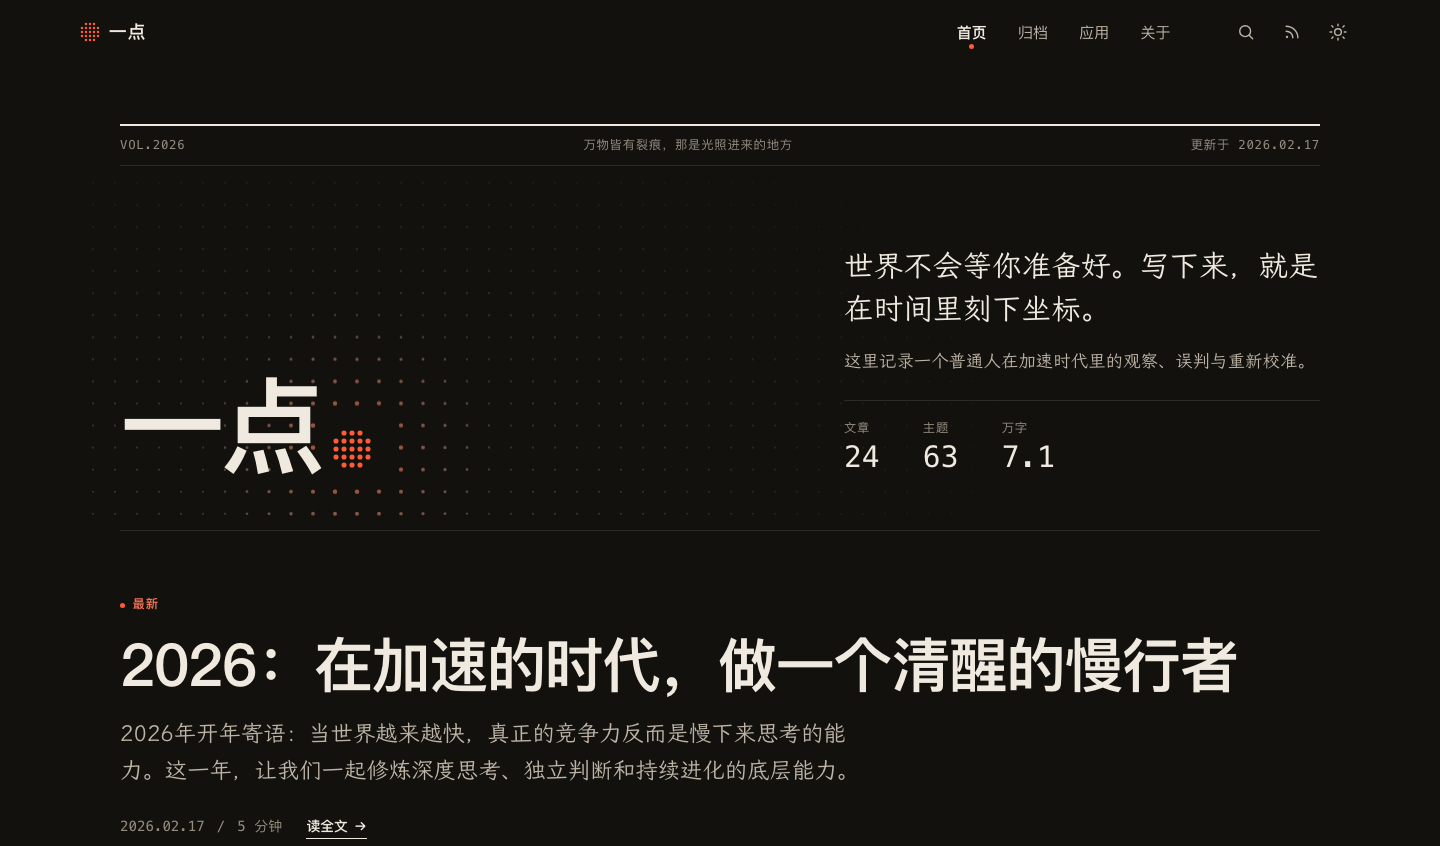
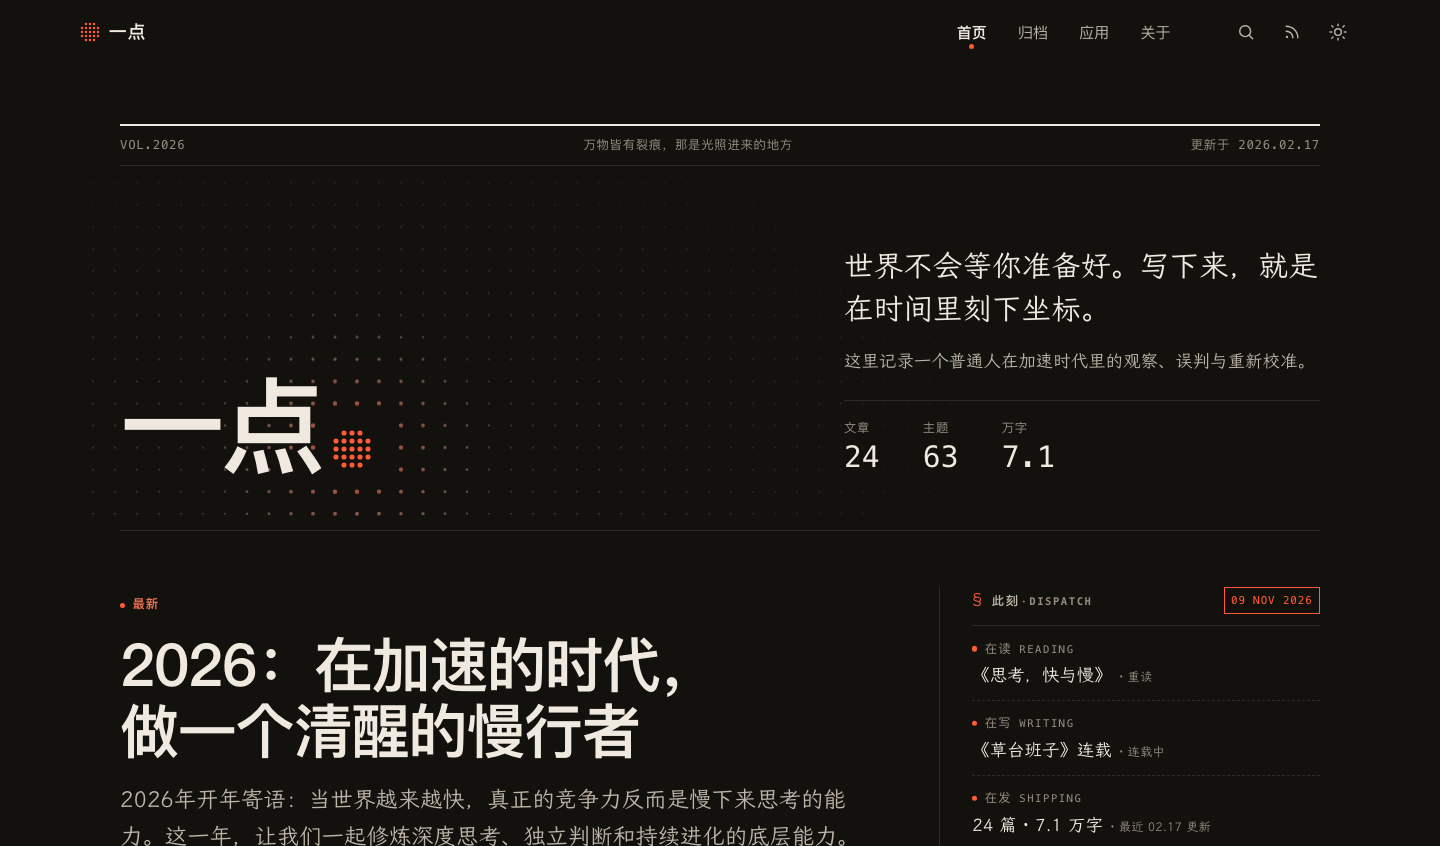
fix(home): 「此刻」收回头条右栏，字号降回侧栏尺度
- home.html 把 now 放回 .front；.front 恢复 8fr/4fr 栅格
- .dispatch 改 align-self:start + 左边框，去掉通栏的 margin-top / border-top
- 内容字号 --step-2 → --step-0，标题 --step--1 → --step--2，
  四行改「标签一行、内容一行」
- 柱图独占一行并放大，SET IN 提回 --step--1，点阵落款 22→16px
- 860px 以下右栏落到头条下方并排 2×2，700px 以下回单列
- 数据与自动统计口径不变；§ 字重 400 保留，字体请求仍 1 个
- 同步明暗截图、README 与 REFACTOR 23.6 修订记录

Changed region(s): [[0.0625, 0.8298, 0.5938, 1.0], [0.5, 0.7069, 0.9062, 0.8913], [0.6875, 0.922, 0.8438, 0.9835]]

diff --git a/assets/css/v10/_dispatch.scss b/assets/css/v10/_dispatch.scss
@@ -1,26 +1,26 @@
 /* ===================================================================
-   V10.6「此刻 · DISPATCH」通栏状态公报
+   V10.6「此刻 · DISPATCH」右栏状态公报
    -------------------------------------------------------------------
-   形式取自公报 / colophon：细线分栏、等宽标签、衬线内容、日期框、
-   底部排印说明。与 V10 的差别只在「多了一层线」，配色、字族、留白
-   全部沿用令牌，明暗主题自动跟随。
+   形式取自公报 / colophon：细线分栏、等宽标签、日期框、柱图、底部
+   排印说明。但位置仍回到 V10 的 .front 右栏（8fr / 4fr），不占通栏，
+   字号也压回侧栏尺度——比头条低一档，不跟刊头抢注意力。
 
    刻意不搬参考图里的东西：世界地图、BUREAUX、冷蓝、英文衬线。
    蓝色小点换成朱砂点，右下角复用 components/dot-shape 的点阵圆。
    =================================================================== */
 
 .dispatch {
-  margin-top: #{"clamp(2.5rem, 1.5rem + 3vw, 4rem)"};
-  padding-top: #{"clamp(1.25rem, .8rem + 1.5vw, 1.75rem)"};
-  border-top: 2px solid var(--line-ink);
+  align-self: start;
+  padding-left: #{"clamp(1.25rem, 2.5vw, 2rem)"};
+  border-left: 1px solid var(--line);
 }
 
 .dispatch-head {
   display: flex;
   align-items: center;
   justify-content: space-between;
-  gap: 1rem;
-  padding-bottom: 1rem;
+  gap: .6rem;
+  padding-bottom: .7rem;
   border-bottom: 1px solid var(--line);
 }
 
@@ -30,18 +30,19 @@
   gap: .15em;
   margin: 0;
   font-family: var(--font-ui);
-  font-size: var(--step--1);
+  font-size: var(--step--2);
   font-weight: 600;
-  letter-spacing: .18em;
+  letter-spacing: .14em;
+  white-space: nowrap;
   color: var(--ink-2);
 }
 
 .dispatch-sigil {
-  margin-right: .45em;
+  margin-right: .4em;
   font-family: var(--font-read);
   /* 标题继承 600 字重，会把 medium 那份 woff2 也拉下来（+682KB），这里压回 400 */
   font-weight: 400;
-  font-size: 1.25em;
+  font-size: 1.2em;
   color: var(--zhu);
 }
 
@@ -49,8 +50,8 @@
 
 .dispatch-en {
   font-family: var(--font-num);
-  font-size: .82em;
-  letter-spacing: .2em;
+  font-size: .86em;
+  letter-spacing: .14em;
   text-transform: uppercase;
   color: var(--ink-3);
 }
@@ -58,11 +59,11 @@
 .dispatch-date {
   flex: none;
   margin: 0;
-  padding: .35rem .65rem;
+  padding: .2rem .4rem;
   border: 1px solid var(--zhu);
   font-family: var(--font-num);
-  font-size: var(--step--2);
-  letter-spacing: .12em;
+  font-size: .68rem;
+  letter-spacing: .08em;
   text-transform: uppercase;
   white-space: nowrap;
   color: var(--zhu);
@@ -70,12 +71,12 @@
 
 .dispatch-list { margin: 0; }
 
+/* 窄栏里「左标签 + 右内容」放不下，改成标签一行、内容一行 */
 .dispatch-row {
   display: grid;
-  grid-template-columns: minmax(0, 11rem) minmax(0, 1fr);
-  align-items: baseline;
-  gap: 1rem 2rem;
-  padding: 1.1rem 0;
+  grid-template-columns: 1fr;
+  gap: .2rem;
+  padding: .7rem 0;
   border-bottom: 1px dashed var(--line);
 
   &:last-child { border-bottom: 0; }
@@ -83,10 +84,10 @@
   dt {
     display: inline-flex;
     align-items: baseline;
-    gap: .7em;
+    gap: .6em;
     font-family: var(--font-ui);
-    font-size: var(--step--1);
-    letter-spacing: .12em;
+    font-size: var(--step--2);
+    letter-spacing: .1em;
     white-space: nowrap;
     color: var(--ink-3);
   }
@@ -95,7 +96,7 @@
     display: flex;
     flex-wrap: wrap;
     align-items: baseline;
-    gap: .25rem .8rem;
+    gap: .15rem .45rem;
     margin: 0;
   }
 }
@@ -109,10 +110,11 @@
   transform: translateY(-.1em);
 }
 
+/* 原本 --step-2 在右栏里过大，压回侧栏原来的 --step-0 */
 .dispatch-text {
   font-family: var(--font-read);
-  font-size: var(--step-2);
-  line-height: 1.45;
+  font-size: var(--step-0);
+  line-height: 1.5;
   color: var(--ink);
   text-decoration: none;
 
@@ -125,17 +127,19 @@
 
 .dispatch-note {
   font-family: var(--font-read);
-  font-size: var(--step--1);
+  font-size: var(--step--2);
   color: var(--ink-3);
 }
 
-/* 近 12 个月发文柱图：0 也留 6% 底线，静默期才看得出是「平」而不是「没画」 */
+/* 近 12 个月发文柱图：0 也留 6% 底线，静默期才看得出是「平」而不是「没画」。
+   右栏太窄，跟在文字后面会被挤成一个小突起，这里让它独占一行。 */
 .dispatch-bars {
   display: inline-flex;
+  flex: 0 0 100%;
   align-items: flex-end;
   gap: 3px;
-  height: 1.15rem;
-  margin-left: .9rem;
+  height: 1rem;
+  margin-top: .3rem;
 
   i {
     display: block;
@@ -151,9 +155,9 @@
   display: flex;
   align-items: center;
   justify-content: space-between;
-  gap: 1rem;
-  margin-top: .25rem;
-  padding-top: 1rem;
+  gap: .6rem;
+  margin-top: .2rem;
+  padding-top: .7rem;
   border-top: 1px solid var(--line);
 }
 
@@ -161,21 +165,29 @@
   margin: 0;
   font-family: var(--font-read);
   font-size: var(--step--1);
+  line-height: 1.5;
   color: var(--ink-3);
 
-  .dispatch-en { margin-right: .65em; }
+  .dispatch-en { margin-right: .5em; }
 }
 
-.dispatch-mark { --dot-shape-size: 22px; }
+.dispatch-mark { --dot-shape-size: 16px; }
+
+/* 中屏：.front 收成单列，公报改上边框，四行排成 2×2 压缩高度 */
+@media (max-width: 860px) {
+  .dispatch {
+    padding: 1.25rem 0 0;
+    border-left: 0;
+    border-top: 2px solid var(--line-ink);
+  }
+  .dispatch-list {
+    display: grid;
+    grid-template-columns: repeat(2, minmax(0, 1fr));
+    column-gap: 1.25rem;
+  }
+}
 
 @media (max-width: 700px) {
-  .dispatch-row {
-    grid-template-columns: 1fr;
-    gap: .35rem;
-    padding: .9rem 0;
-  }
   .dispatch-row .dispatch-en { display: none; }
-  .dispatch-text { font-size: var(--step-1); }
-  .dispatch-bars { gap: 2px; }
-  .dispatch-bars i { width: 3px; }
+  .dispatch-list { grid-template-columns: 1fr; }
 }

diff --git a/layouts/home.html b/layouts/home.html
@@ -4,7 +4,7 @@
   ---------------------------------------------------------------
   1. 刊头      home/hero    站名大字 + 刊语 + 数据（这是谁、写了多少）
   2. 头条      home/lead    精选 / 最新一篇
-  3. 此刻公报  home/now     通栏状态流：在读 / 在写 / 在发 / 在码
+  3. 此刻      home/now     右栏状态公报：在读 / 在写 / 在发 / 在码
                              后两行从站点内容自动统计
   4. 最近发表   items/post   严格按时间倒序（旧版取的是主题区挑剩的
                              文章，时间线是断的）
@@ -62,11 +62,9 @@
   {{ with $lead }}
   <div class="front">
     {{ partial "home/lead" (dict "ctx" .page "badge" .badge) }}
+    {{ partial "home/now" . }}
   </div>
   {{ end }}
-
-  {{/* V10.6：此刻从 .front 的右栏抽出来，升级成通栏状态公报 */}}
-  {{ partial "home/now" . }}
 
   {{ with $scratch.Get "rest" }}
   <section class="v-section stream pagefind-exclude" aria-labelledby="stream-heading">

diff --git a/assets/css/v10/_home.scss b/assets/css/v10/_home.scss
@@ -156,8 +156,11 @@ body { margin: 0; }
   }
 }
 
-/* ---------- 2. 头条（V10.6：此刻已抽出为通栏公报，这里只剩一列） ---------- */
+/* ---------- 2. 头条 + 此刻（右栏） ---------- */
 .front {
+  display: grid;
+  grid-template-columns: minmax(0, 8fr) minmax(0, 4fr);
+  gap: #{"clamp(1.75rem, 4vw, 4.5rem)"};
   padding-top: #{"clamp(2rem, 1rem + 3vw, 3.5rem)"};
 }
 
@@ -332,6 +335,7 @@ body { margin: 0; }
 
 @media (max-width: 860px) {
   .masthead-grid { grid-template-columns: 1fr; align-items: start; }
+  .front { grid-template-columns: 1fr; }
 }
 
 @media (max-width: 600px) {

diff --git a/REFACTOR.md b/REFACTOR.md
@@ -744,7 +744,7 @@ CDP 量化探针（1440 视口）量出两个叠加原因：
 ### 23.2 改动
 
 - **数据**：`data/about.yaml` 拆出独立的 `dispatch` 段，只放在读 / 在写两行的 `text` / `note` / `link`。关于页的「正在读 / 听 / 做 / 喝」读的是同一文件里的 `currently`，两条数据各管各的，改一边不动另一边。
-- **模板**：`home/now.html` 从 `<aside class="now">` 重写为 `<section class="dispatch">`；`home.html` 把它移出 `.front` 双栏，放在头条与「最近发表」之间。`.front` 由 `8fr / 4fr` 改成单列，头条标题顺势从两行收成一行。
+- **模板**：`home/now.html` 从 `<aside class="now">` 重写为 `<section class="dispatch">`。初版曾把它移出 `.front` 双栏、放在头条与「最近发表」之间，`.front` 一度改成单列；23.6 已按反馈收回右栏、恢复 `8fr / 4fr` 栅格。
 - **样式**：新增 `v10/_dispatch.scss`（细线、等宽标签、日期框、柱图、窄屏收英文）；删掉 `v10/_home.scss` 里失效的 `.now / .now-pulse / .now-list / .now-item` 及其响应式与中和规则。`components/_home.scss` 的同名旧规则仍被关于 / 应用 / 精选页使用，未动。
 - **本地化**：蓝色小点 → 朱砂点，右下角复用 `components/dot-shape` 的点阵圆，`SET IN` 那行改写成站内三套字体（霞鹜文楷 / 系统黑体 / 等宽）。
 
@@ -768,3 +768,15 @@ CDP 量化探针（1440 视口）量出两个叠加原因：
 - 自动统计实测：在发「24 篇 · 7.1 万字 · 最近 02.17 更新」；在码「静默中 · 近 12 个月 20 篇」，柱图 12 根。与刊头的数据口径一致。
 - 1440 明暗两色 + 390 窄屏截图：700px 以下英文标签收起、四行改上下结构，日期框 / 柱图 / 点阵落款都无溢出。
 - 首页、归档、关于、标签四页控制台 0 报错；关于页 `currently` 未受影响。
+
+### 23.6 修订：收回右栏，字号降一档
+
+初版把公报做成独立通栏 section，反馈是「位置能否还是在原来的位置」「字体还过大了」。确实两处都过了：通栏虽然不是整页照搬，但仍占掉一整行，把「最近发表」往下推了约 150–200px；`--step-2` 的内容字号拿到右栏里，分量直逼左栏头条。
+
+- **位置**：`home.html` 把 `partial "home/now"` 放回 `.front` 内，`.front` 恢复 `8fr / 4fr` 栅格与 `clamp()` 列间距；`.dispatch` 改 `align-self: start` + 左边框（沿用原来 `.now` 侧栏的位置语言），去掉通栏版的 `margin-top` / `border-top`。头条标题顺势回到两行。
+- **字号**：`.dispatch-text` 由 `--step-2` 压回 `--step-0`（正是原侧栏 `dd` 的字号），标题 `--step--1 → --step--2`，日期框与注脚同步缩小；四行从「左标签 + 右内容」改成「标签一行、内容一行」，行距与虚线间距一起收紧。
+- **窄栏细节**：柱图原本跟在「近 12 个月 20 篇」后面，被挤成一个小突起 → 改 `flex: 0 0 100%` 独占一行，柱宽 3→4px、高 .85→1rem；底部 `SET IN` 说明从 `--step--2` 提回 `--step--1` 才读得清；点阵落款 22→16px。
+- **响应式**：`860px` 以下 `.front` 收成单列时，`.dispatch` 换上边框、四行排成 2×2 压缩高度；`700px` 以下再回单列并隐藏英文标签。
+- **没动的部分**：`data/about.yaml` 的 `dispatch`、自动统计口径、`§` 的 `font-weight: 400`（避免多下 682KB 字体）、关于页的 `currently`，全部保持。
+
+复验：字体请求仍是 1 个 / 683KB，首页 6 请求、CLS 0.0002；HTML 35.9KB（gzip 11.8KB）、CSS 169.3KB（gzip 30KB），与通栏版体积基本一致——位置与字号是纯布局调整，没增加传输成本。1440 明暗 + 390 窄屏截图通过，首页与关于页控制台 0 报错。

diff --git a/README.md b/README.md
@@ -85,7 +85,7 @@
 三种字体角色分工：标题走 `--font-display`（系统黑体），正文走 `--font-read`（霞鹜文楷），数字 / 眉题走 `--font-num`（等宽）。正文之外的界面文字一律用系统 UI 字体。
 
 - **首页**：刊头是一块 canvas 涟漪点阵场——朱砂点像一滴墨落进水面，波前经过的点被点亮并沿径向推开；指针靠近会亮起，点击能激起新的涟漪。`prefers-reduced-motion` 下只画一帧静态晕圈，画面静止 600ms 后停表。
-- **此刻**：头条底下的通栏「状态公报」——细线分栏、等宽标签、朱砂点、日期框、底部排印说明，四行「在读 / 在写 / 在发 / 在码」。后两行从站点内容自动算出（篇数、字数、最近更新、近 12 个月发文柱图），不会写完就过期。见[维护此刻状态](#维护此刻状态)。
+- **此刻**：头条右侧栏里的「状态公报」——细线分栏、等宽标签、朱砂点、日期框、底部排印说明，四行「在读 / 在写 / 在发 / 在码」，字号比头条低一档，不抢刊头。后两行从站点内容自动算出（篇数、字数、最近更新、近 12 个月发文柱图），不会写完就过期。见[维护此刻状态](#维护此刻状态)。
 - **阅读页**：「一章书页」——居中扉页、首字下沉、图片外扩出血、右页边点线目录（每章一个点，按真实位置排布），选中文字浮出「复制摘句 / 分享」，文末用笔墨标记写出「全文完」并给出本次实际用时。
 - **无障碍**：所有动效尊重 `prefers-reduced-motion`；正文级对比度按 WCAG AA 实算；读程 / 评论 / 目录按钮的展开状态同步 `aria-expanded`。
 
@@ -226,7 +226,9 @@ banner: /img/xxx.png   # 扉页横幅，可选
 | 在读 / 在写 | `data/about.yaml` 的 `dispatch` | 改 `text` / `note`，「在写」还能给 `link` |
 | 在发 / 在码 | `layouts/_partials/home/now.html` 自动统计 | 不用管：在发取全站篇数、总字数、最近更新日期；在码按近 12 个月逐月数发文，画成迷你柱图，最近 3 个月为 0 就写「静默中」 |
 
-`about.yaml` 里另有一份 `currently`（正在读 / 听 / 做 / 喝）是**关于页**用的，和 `dispatch` 各管各的，改一边不会动到另一边。窄屏下四行的英文标签会收起，只留中文。
+`about.yaml` 里另有一份 `currently`（正在读 / 听 / 做 / 喝）是**关于页**用的，和 `dispatch` 各管各的，改一边不会动到另一边。
+
+公报固定在头条右侧栏：`860px` 以下右栏落到头条下方，四行排成 2×2 压缩高度；`700px` 以下再收回单列，英文标签隐藏。柱图在窄栏里独占一行，不会被文字挤成一个小突起。
 
 ### 分类与标签页
 
@@ -292,7 +294,7 @@ npm run build:uno:prod && npm run build   # 生产构建 → public/
 | 首页请求 | 6 个（文档 + 1 CSS + 2 JS + 1 woff2 + favicon 5KB），涟漪脚本内联在 HTML 里 |
 | 首页 HTML | 35.9KB（gzip 后 11.8KB，含内联的点阵 SVG 与状态公报） |
 | 首页样式 | 169KB（gzip 后 30KB） |
-| 首页 LCP / CLS | 约 120ms / 0.0001 |
+| 首页 LCP / CLS | 约 120ms / 0.0002 |
 | 文章页 | 2 个 woff2（1.33MB）+ 21KB JS；LCP 140ms，CLS 0.0011 |
 | 列表页脚本 | 0.5KB（只剩进场动画，读程 / 目录 / 偏好按 `.IsPage` 才加载） |
 
